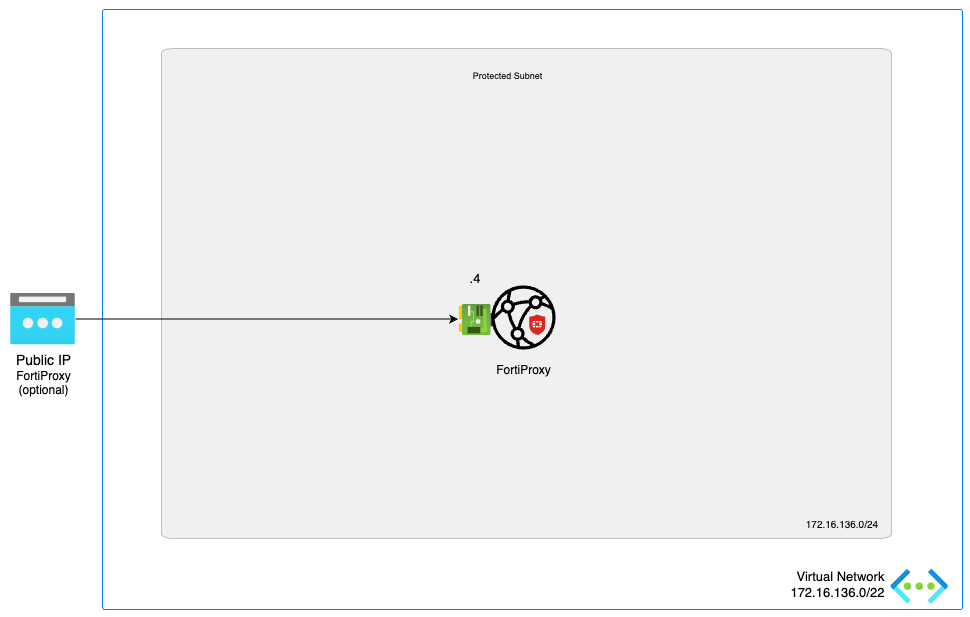
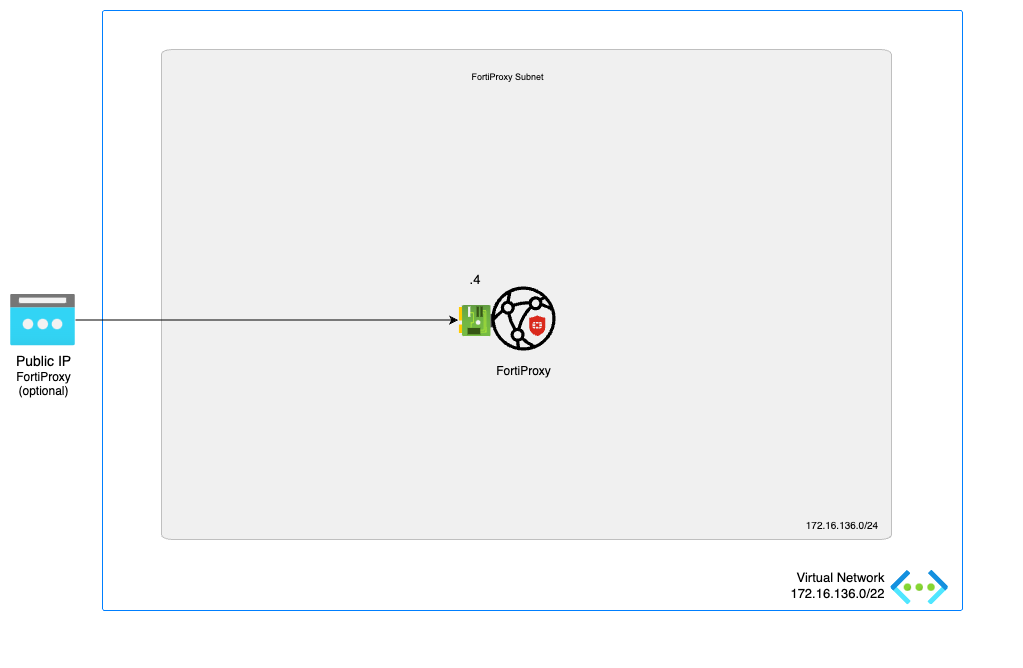
FPX: Update network drawing

diff --git a/FortiProxy/Active-Active/README.md b/FortiProxy/Active-Active/README.md
@@ -1,6 +1,9 @@
 # FortiProxy - Active/Active with External or Internal Load Balancer
 
-![FortiProxy-VM azure design](images/fpx-single-vm.png)
+![FortiProxy-VM azure design](images/fpx-aa.png)
+
+Availability Zone
+![FortiProxy-VM azure design](images/fpx-aa-az.png)
 
 ### Azure Portal
 
